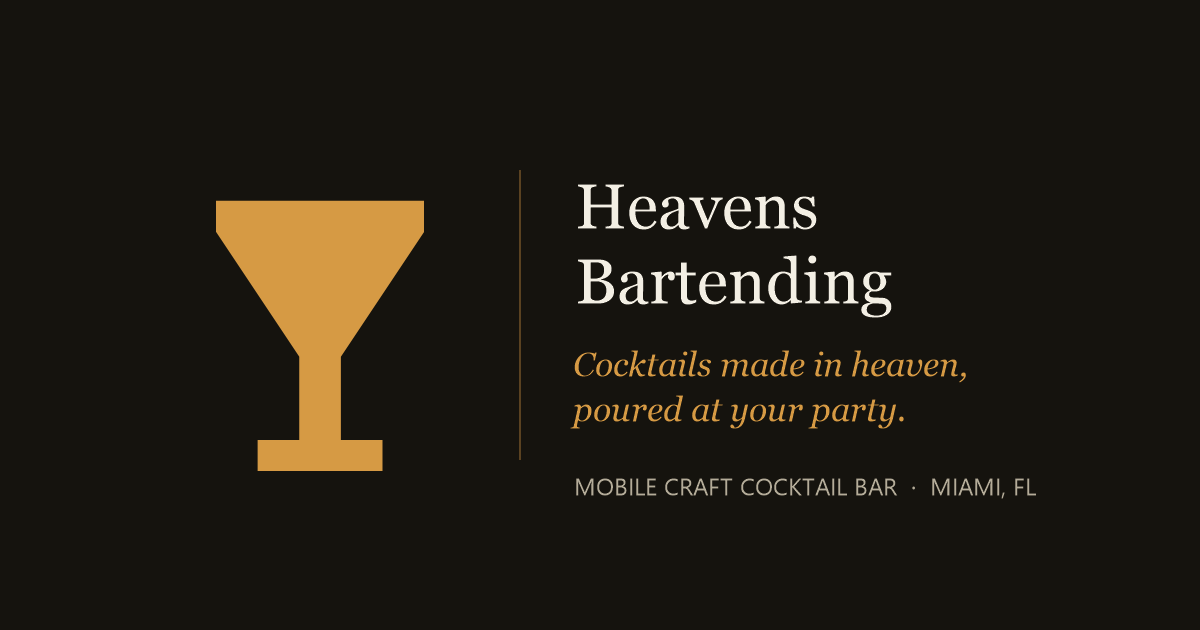
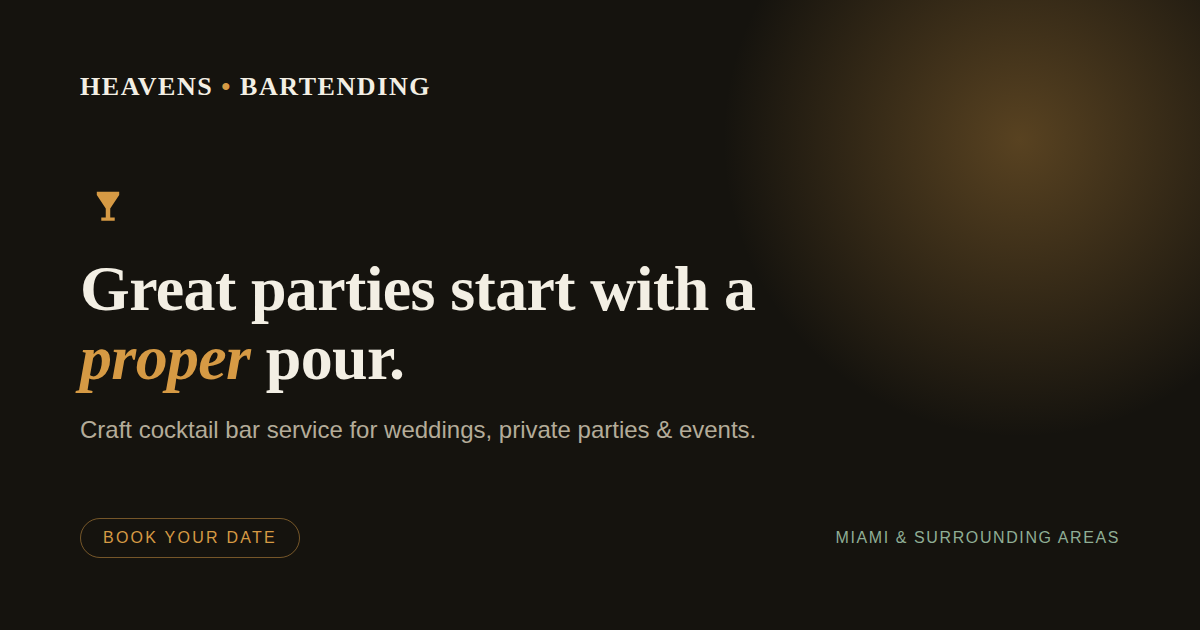
Remove sample-photo caption and restore original share image
Drops the "Sample photos from Unsplash for now" note under the
gallery (and its unused .photo-note styles), and brings back the
original August og-image design for link previews.

diff --git a/index.html b/index.html
@@ -345,7 +345,6 @@
   .g2{grid-column:span 3; grid-row:span 2;}
   .g3,.g4,.g5{grid-column:span 2; grid-row:span 2;}
   .g6,.g7{grid-column:span 3; grid-row:span 2;}
-  .photo-note{margin-top:20px; font-size:0.82rem; color:var(--ink-soft);}
   @media (max-width:900px){
     .grid-gallery{grid-template-columns:repeat(2,1fr); grid-auto-rows:160px;}
     .g1,.g2,.g3,.g4,.g5,.g6,.g7{grid-column:span 1; grid-row:span 2;}
@@ -415,7 +414,7 @@
   }
   .package-extra{font-size:0.8rem; color:var(--ink-soft); border-top:1px solid var(--line); padding-top:14px;}
   .packages-note{margin-top:36px; font-size:0.88rem; color:var(--ink-soft); max-width:760px;}
-  .packages-note a, .disclaimer a, .menu-note a, .photo-note a{color:var(--amber); border-bottom:1px solid rgba(214,154,68,0.4);}
+  .packages-note a, .disclaimer a, .menu-note a{color:var(--amber); border-bottom:1px solid rgba(214,154,68,0.4);}
   .disclaimer{
     margin-top:20px; max-width:760px;
     border:1px solid rgba(214,154,68,0.3);
@@ -769,7 +768,6 @@
             alt="Guests toasting with wine glasses at a party"
             loading="lazy" decoding="async"></figure>
       </div>
-      <p class="photo-note">Sample photos from <a href="https://unsplash.com" target="_blank" rel="noopener noreferrer">Unsplash</a> for now. Photos from our own events are coming soon.</p>
     </div>
   </section>
 
